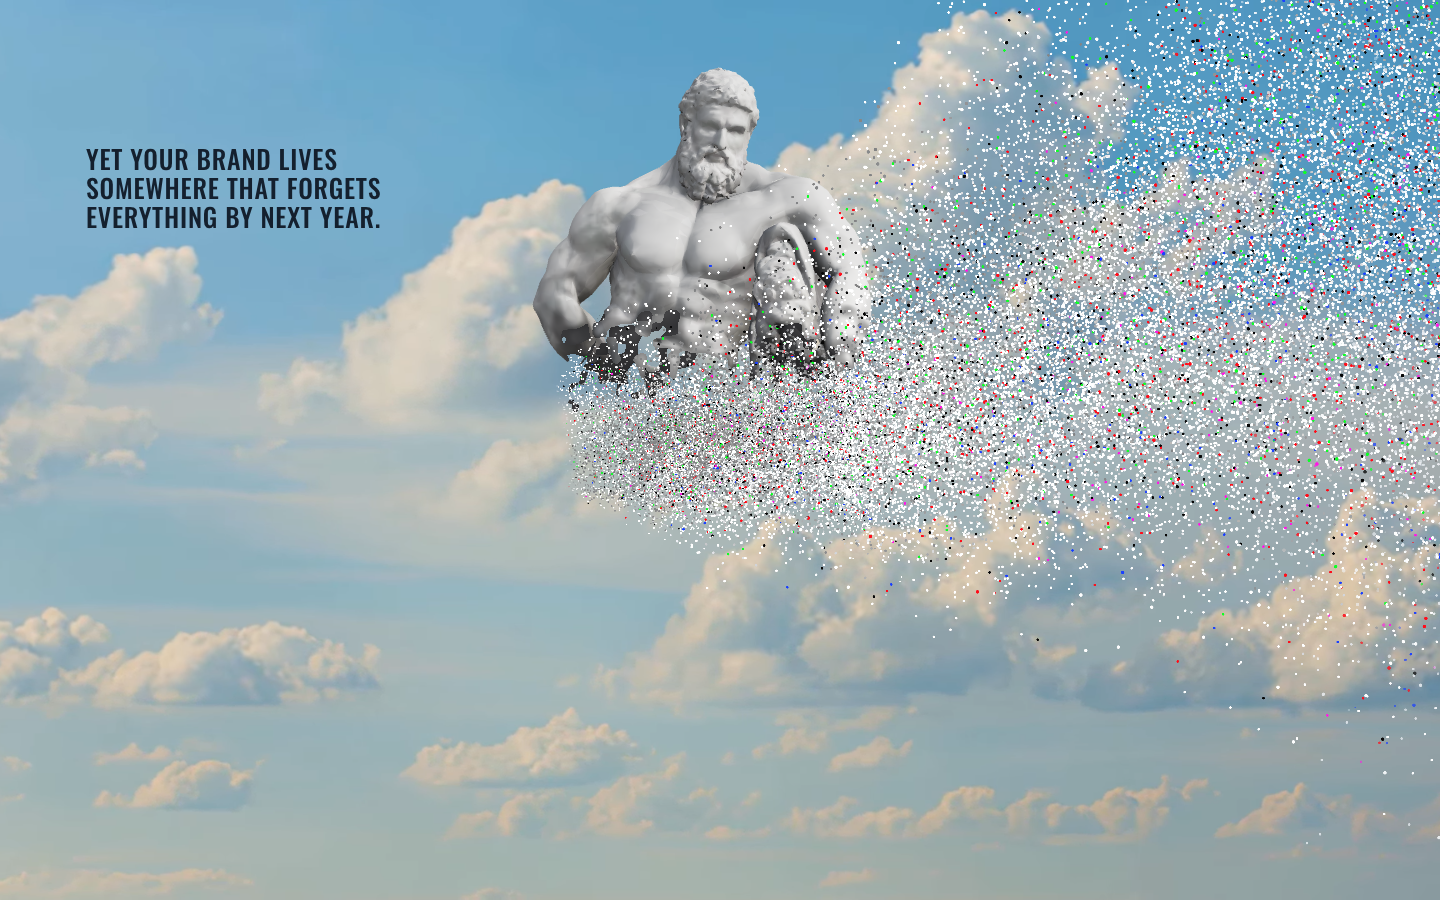
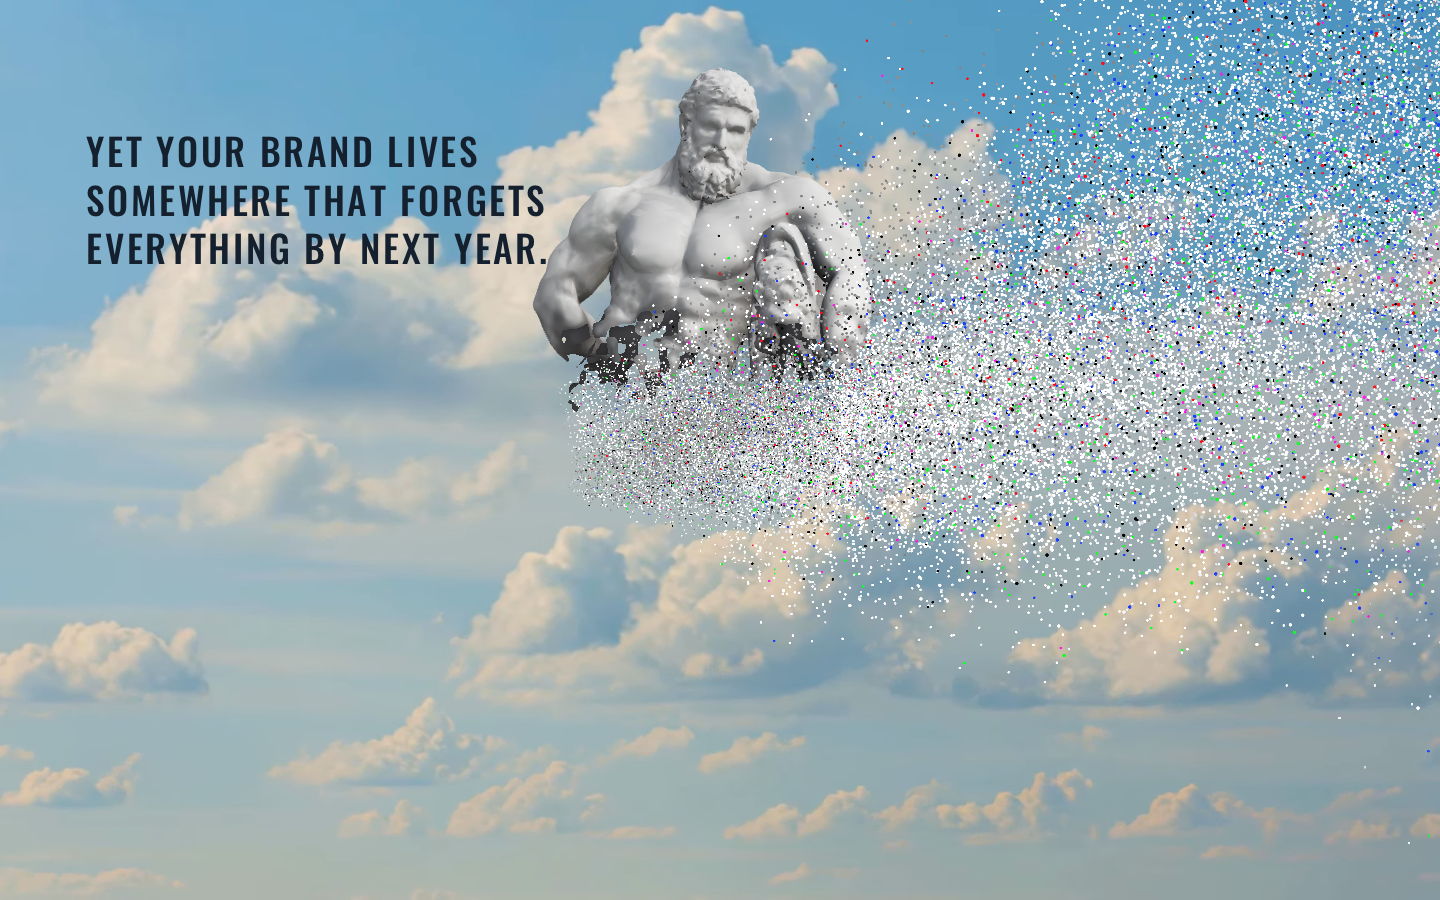
The forgets line bigger and more open on the left
Claude-Session: https://claude.ai/code/session_01NAdPXLUXCGhh82qBsMYyAh

diff --git a/src/app/globals.css b/src/app/globals.css
@@ -284,8 +284,8 @@ body {
 .copy--left { left: clamp(1.25rem, 6vw, 6rem); top: 50%; transform: translateY(-50%); }
 .copy--left-a { left: clamp(1.25rem, 6vw, 6rem); top: 34%; width: min(30vw, 22ch); }
 .copy--left-b { left: clamp(1.25rem, 6vw, 6rem); top: 56%; width: min(30vw, 22ch); color: var(--ink-soft); }
-.copy--top-left { left: clamp(1.25rem, 6vw, 6rem); top: 16%; }
-.copy--tight { width: min(34vw, 26ch); font-size: clamp(var(--step-1), 1.8vw, var(--step-3)); }
+.copy--top-left { left: clamp(1.25rem, 6vw, 6rem); top: 14%; }
+.copy--tight { width: min(38vw, 24ch); font-size: clamp(var(--step-2), 2.6vw, var(--step-5)); line-height: 1.3; letter-spacing: 0.07em; }
 .copy--right { right: clamp(1.25rem, 6vw, 6rem); top: 50%; text-align: right; width: min(46vw, 40ch); transform: translateY(-50%); }
 .copy--bottom { left: 50%; bottom: 5%; text-align: center; transform: translateX(-50%); width: min(70vw, 52ch); }
 .copy--stack-0 { left: clamp(1.25rem, 6vw, 6rem); top: 16%; }
